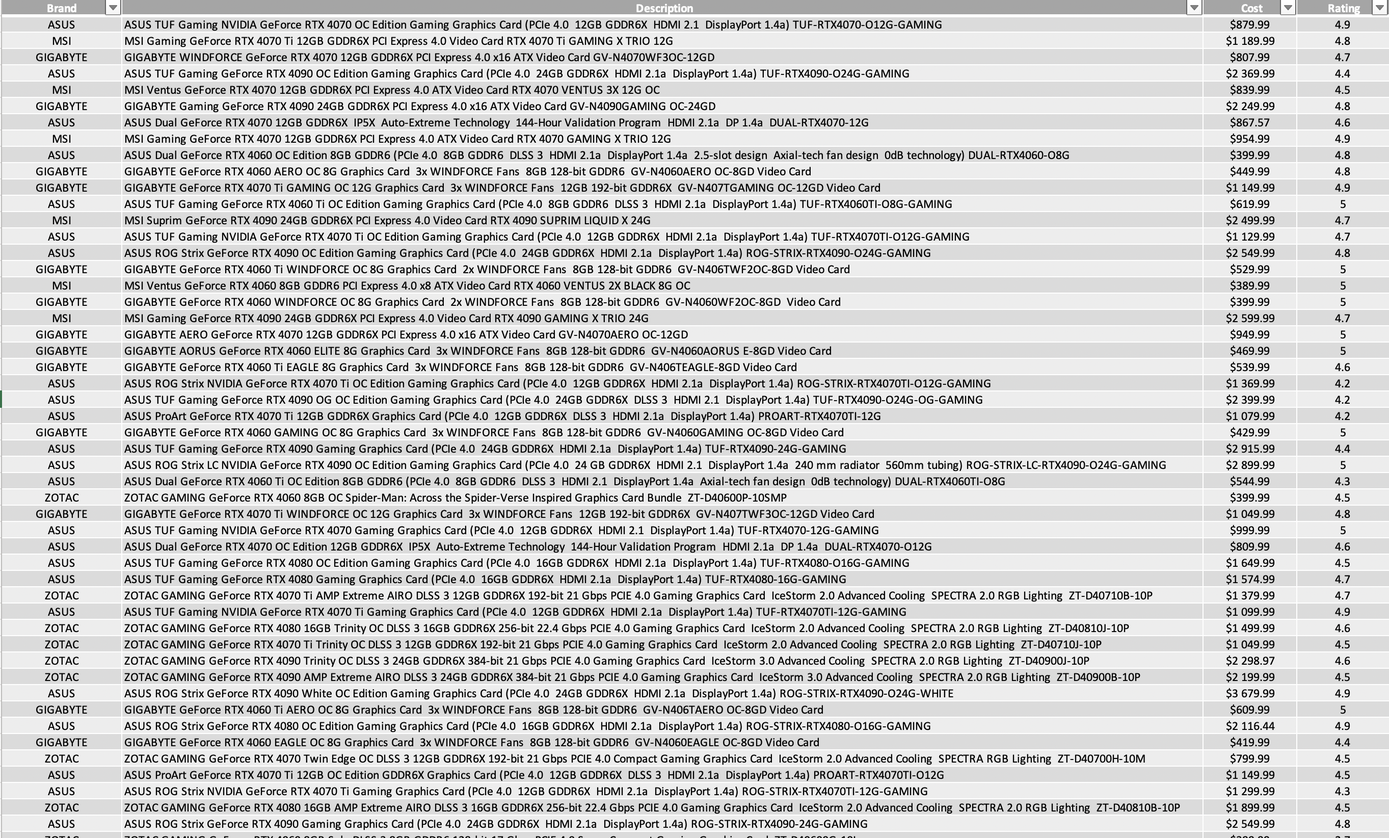
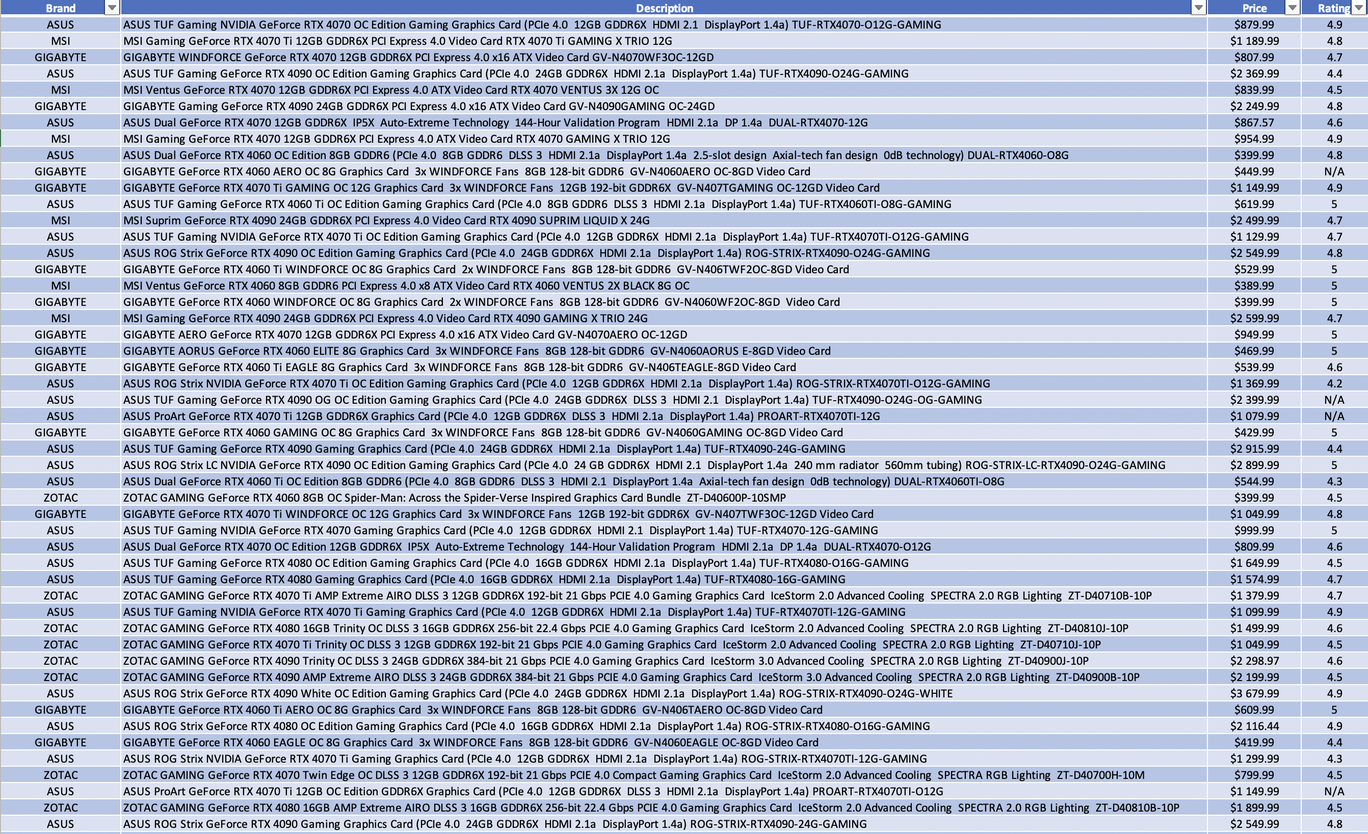
Removed bugs

diff --git a/script.py b/script.py
@@ -22,40 +22,27 @@ f.write(categories)
 
 def record_gpus(gpus):
     for gpu in gpus:
-        try:
-            brand = (((gpu.a).next_sibling).div.a.img)["title"]
-        except:
-            try:
-                brand = (((((gpu.a).next_sibling).div).next_sibling).a.img)["title"]
-            except:
-                pass
-        
-        
-        # If the container has the lowest price div, the description is number of ratings i.e. (22).
-        # Assume that this string is <= 7 characters
-        description = (((gpu.a).next_sibling).div).next_sibling.text
-        if(len(description) <= 7):
-            description = ((((gpu.a).next_sibling).div).next_sibling).next_sibling.text
+       # Some brands are not listed:
+       try:
+           brand = (gpu.find_all(class_="item-brand"))[0].img["title"]
+       except:
+           brand = "N/A"
+       
+       description = (gpu.find_all(class_="item-title"))[0].text
 
-        price_dollar = (((((gpu.a).next_sibling).next_sibling).ul.li).next_sibling).next_sibling.strong.text
-        price_cents = (((((gpu.a).next_sibling).next_sibling).ul.li).next_sibling).next_sibling.sup.text
-        price = "$" + price_dollar + price_cents
-
-
-        try:
-            rating = ((((((gpu.a).next_sibling).div).next_sibling).a).next_sibling)["title"].split("+")[-1].strip()
-        except:
-            try:
-                rating = (((((gpu.a).next_sibling).div).a).next_sibling)["title"].split("+")[-1].strip()
-            except:
-                pass
-        
-        try:
-            gpu_stats = brand.replace(",", " ") + "," + description.replace(",", " ") + "," + price.replace(",", " ") + "," + rating + "\n"
-            f.write(gpu_stats)
-        except:
-            pass
-   
+       price_dollars = (gpu.find_all(class_="price-current"))[0].strong.text
+       price_cents = (gpu.find_all(class_="price-current"))[0].sup.text 
+       price = "$" + price_dollars + price_cents
+       
+       # Some ratings are not listed
+       try:
+           rating= gpu.find_all(class_="item-rating")[0]["title"].split("+")[-1].strip()
+       except:
+           rating = "N/A"
+       
+       gpu_stats = brand.replace(",", " ") + "," + description.replace(",", " ") + "," + price.replace(",", " ") + "," + rating + "\n"
+       f.write(gpu_stats)
+    
            
 for page in range(1, number_of_pages+1):
     url = f'https://www.newegg.ca/p/pl?d=graphics+cards&N=601408872%20100007708&page={page}'
